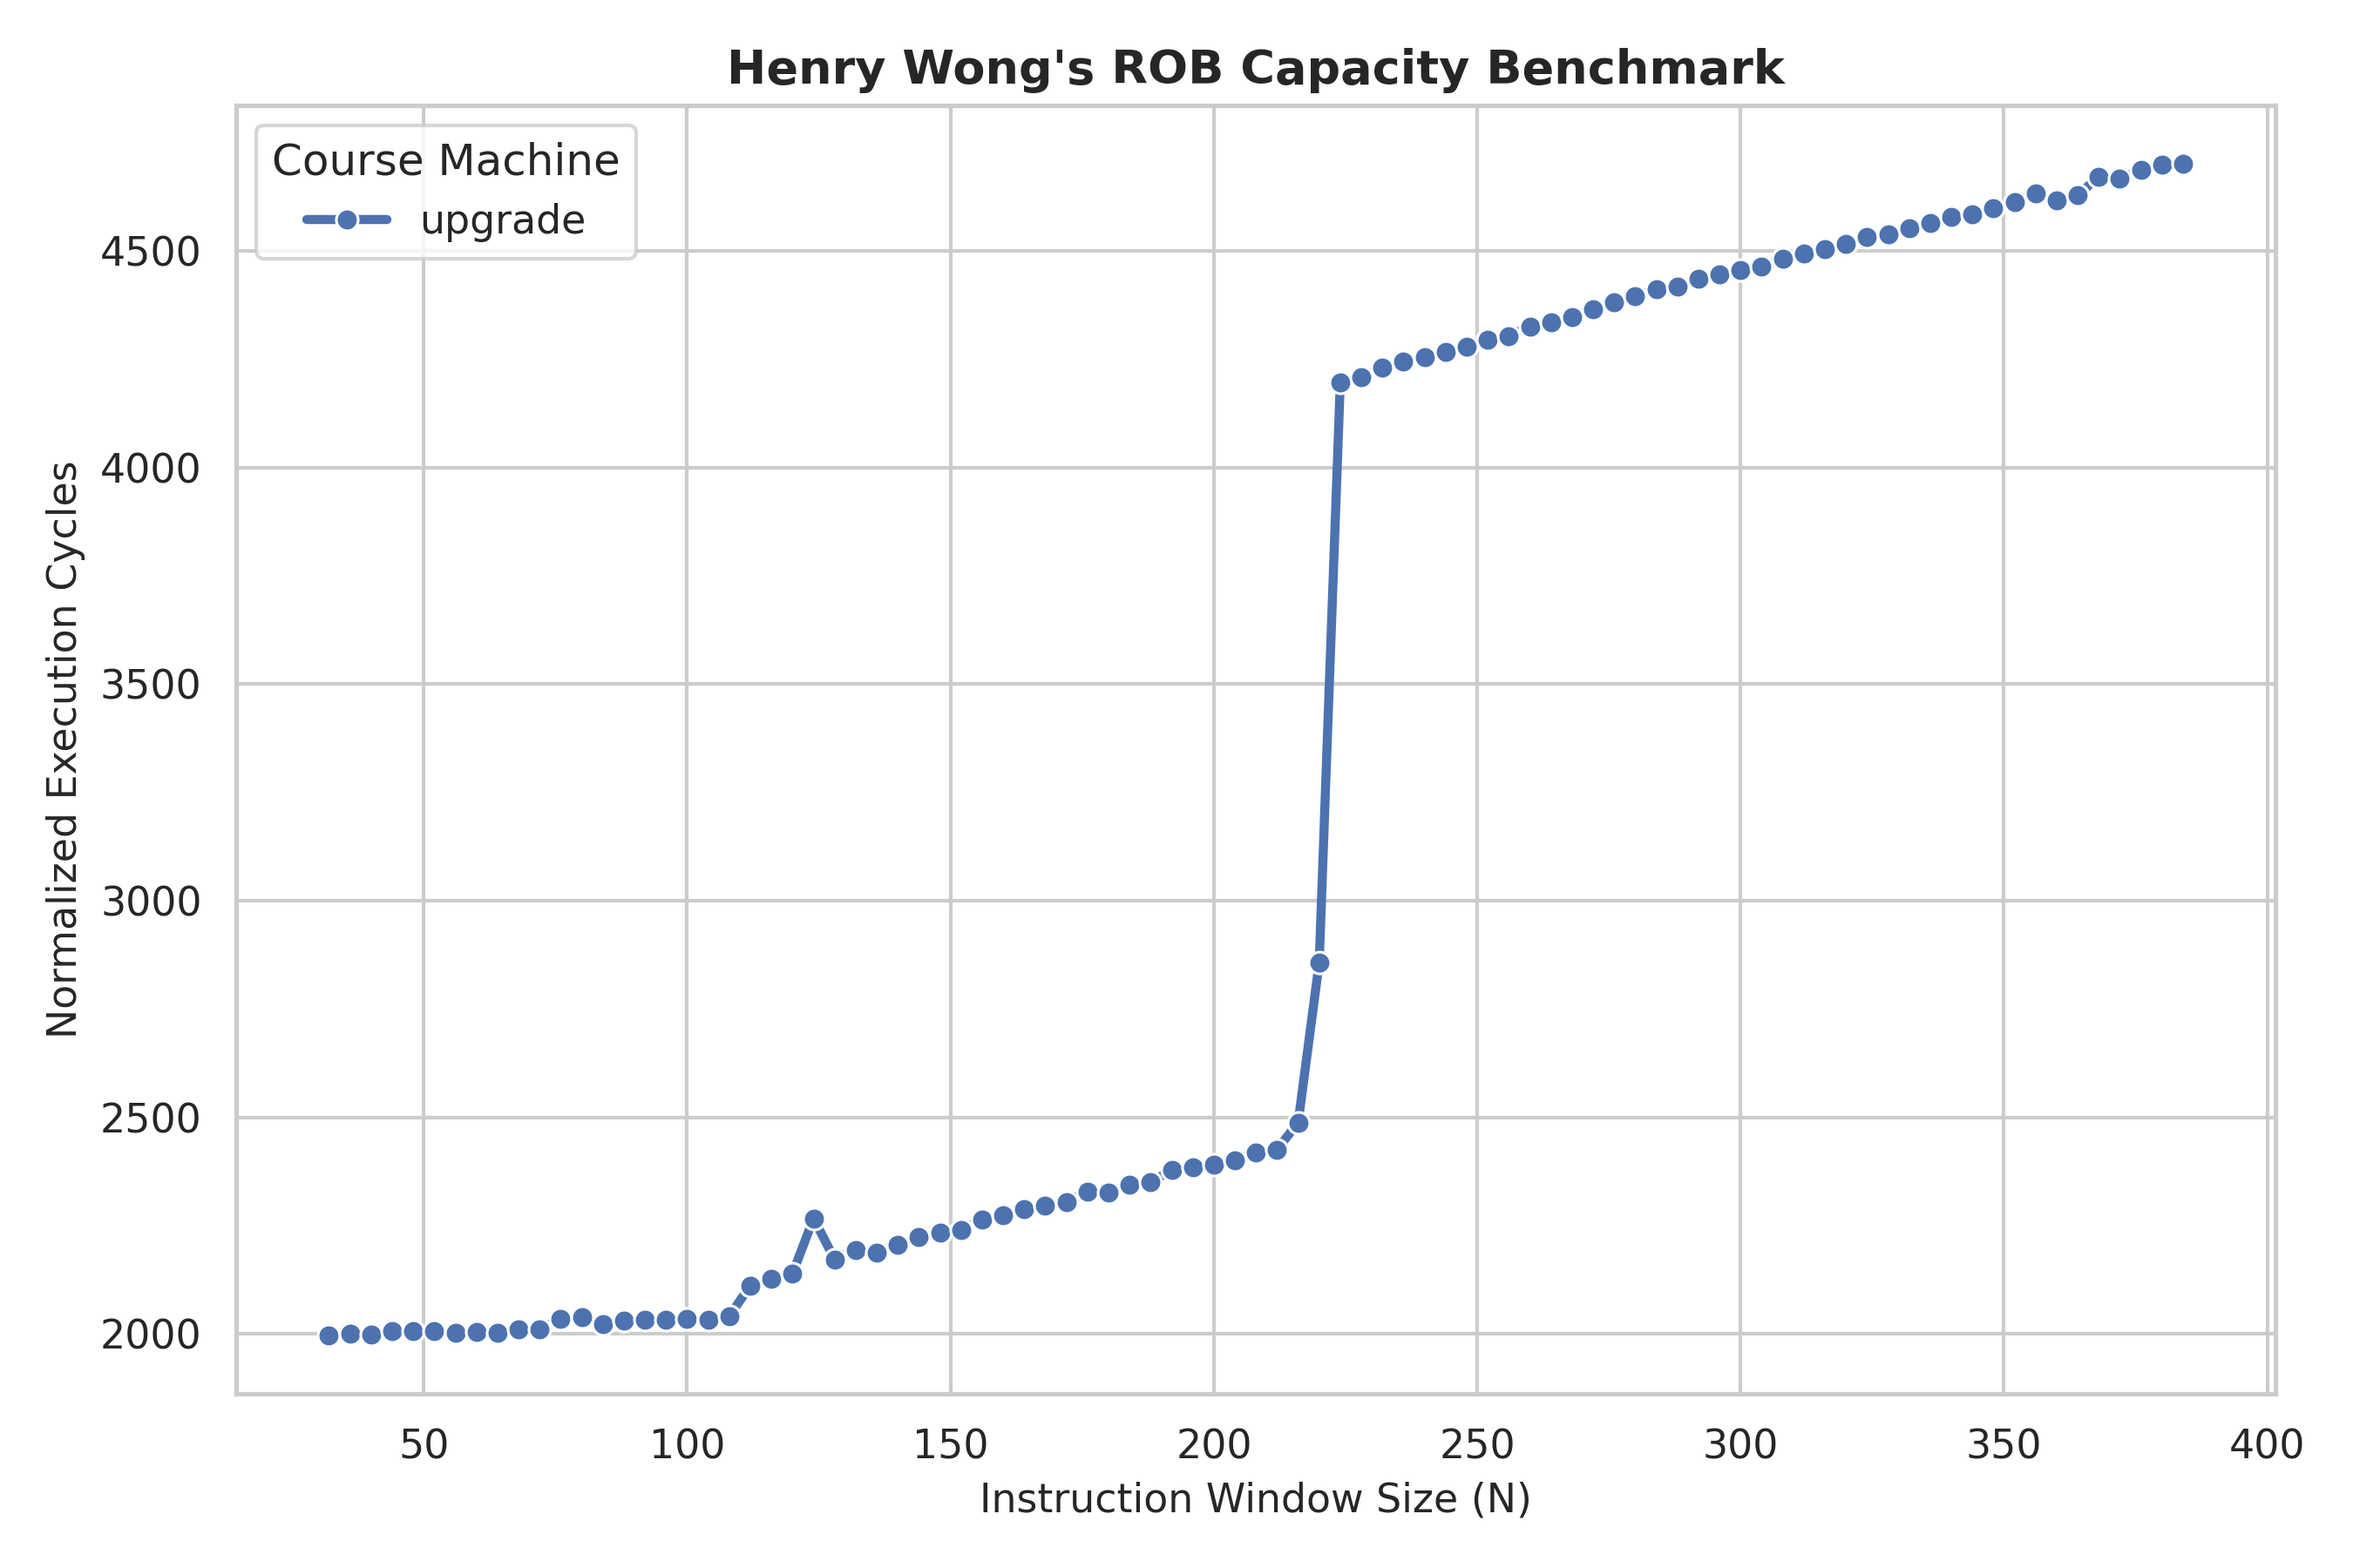
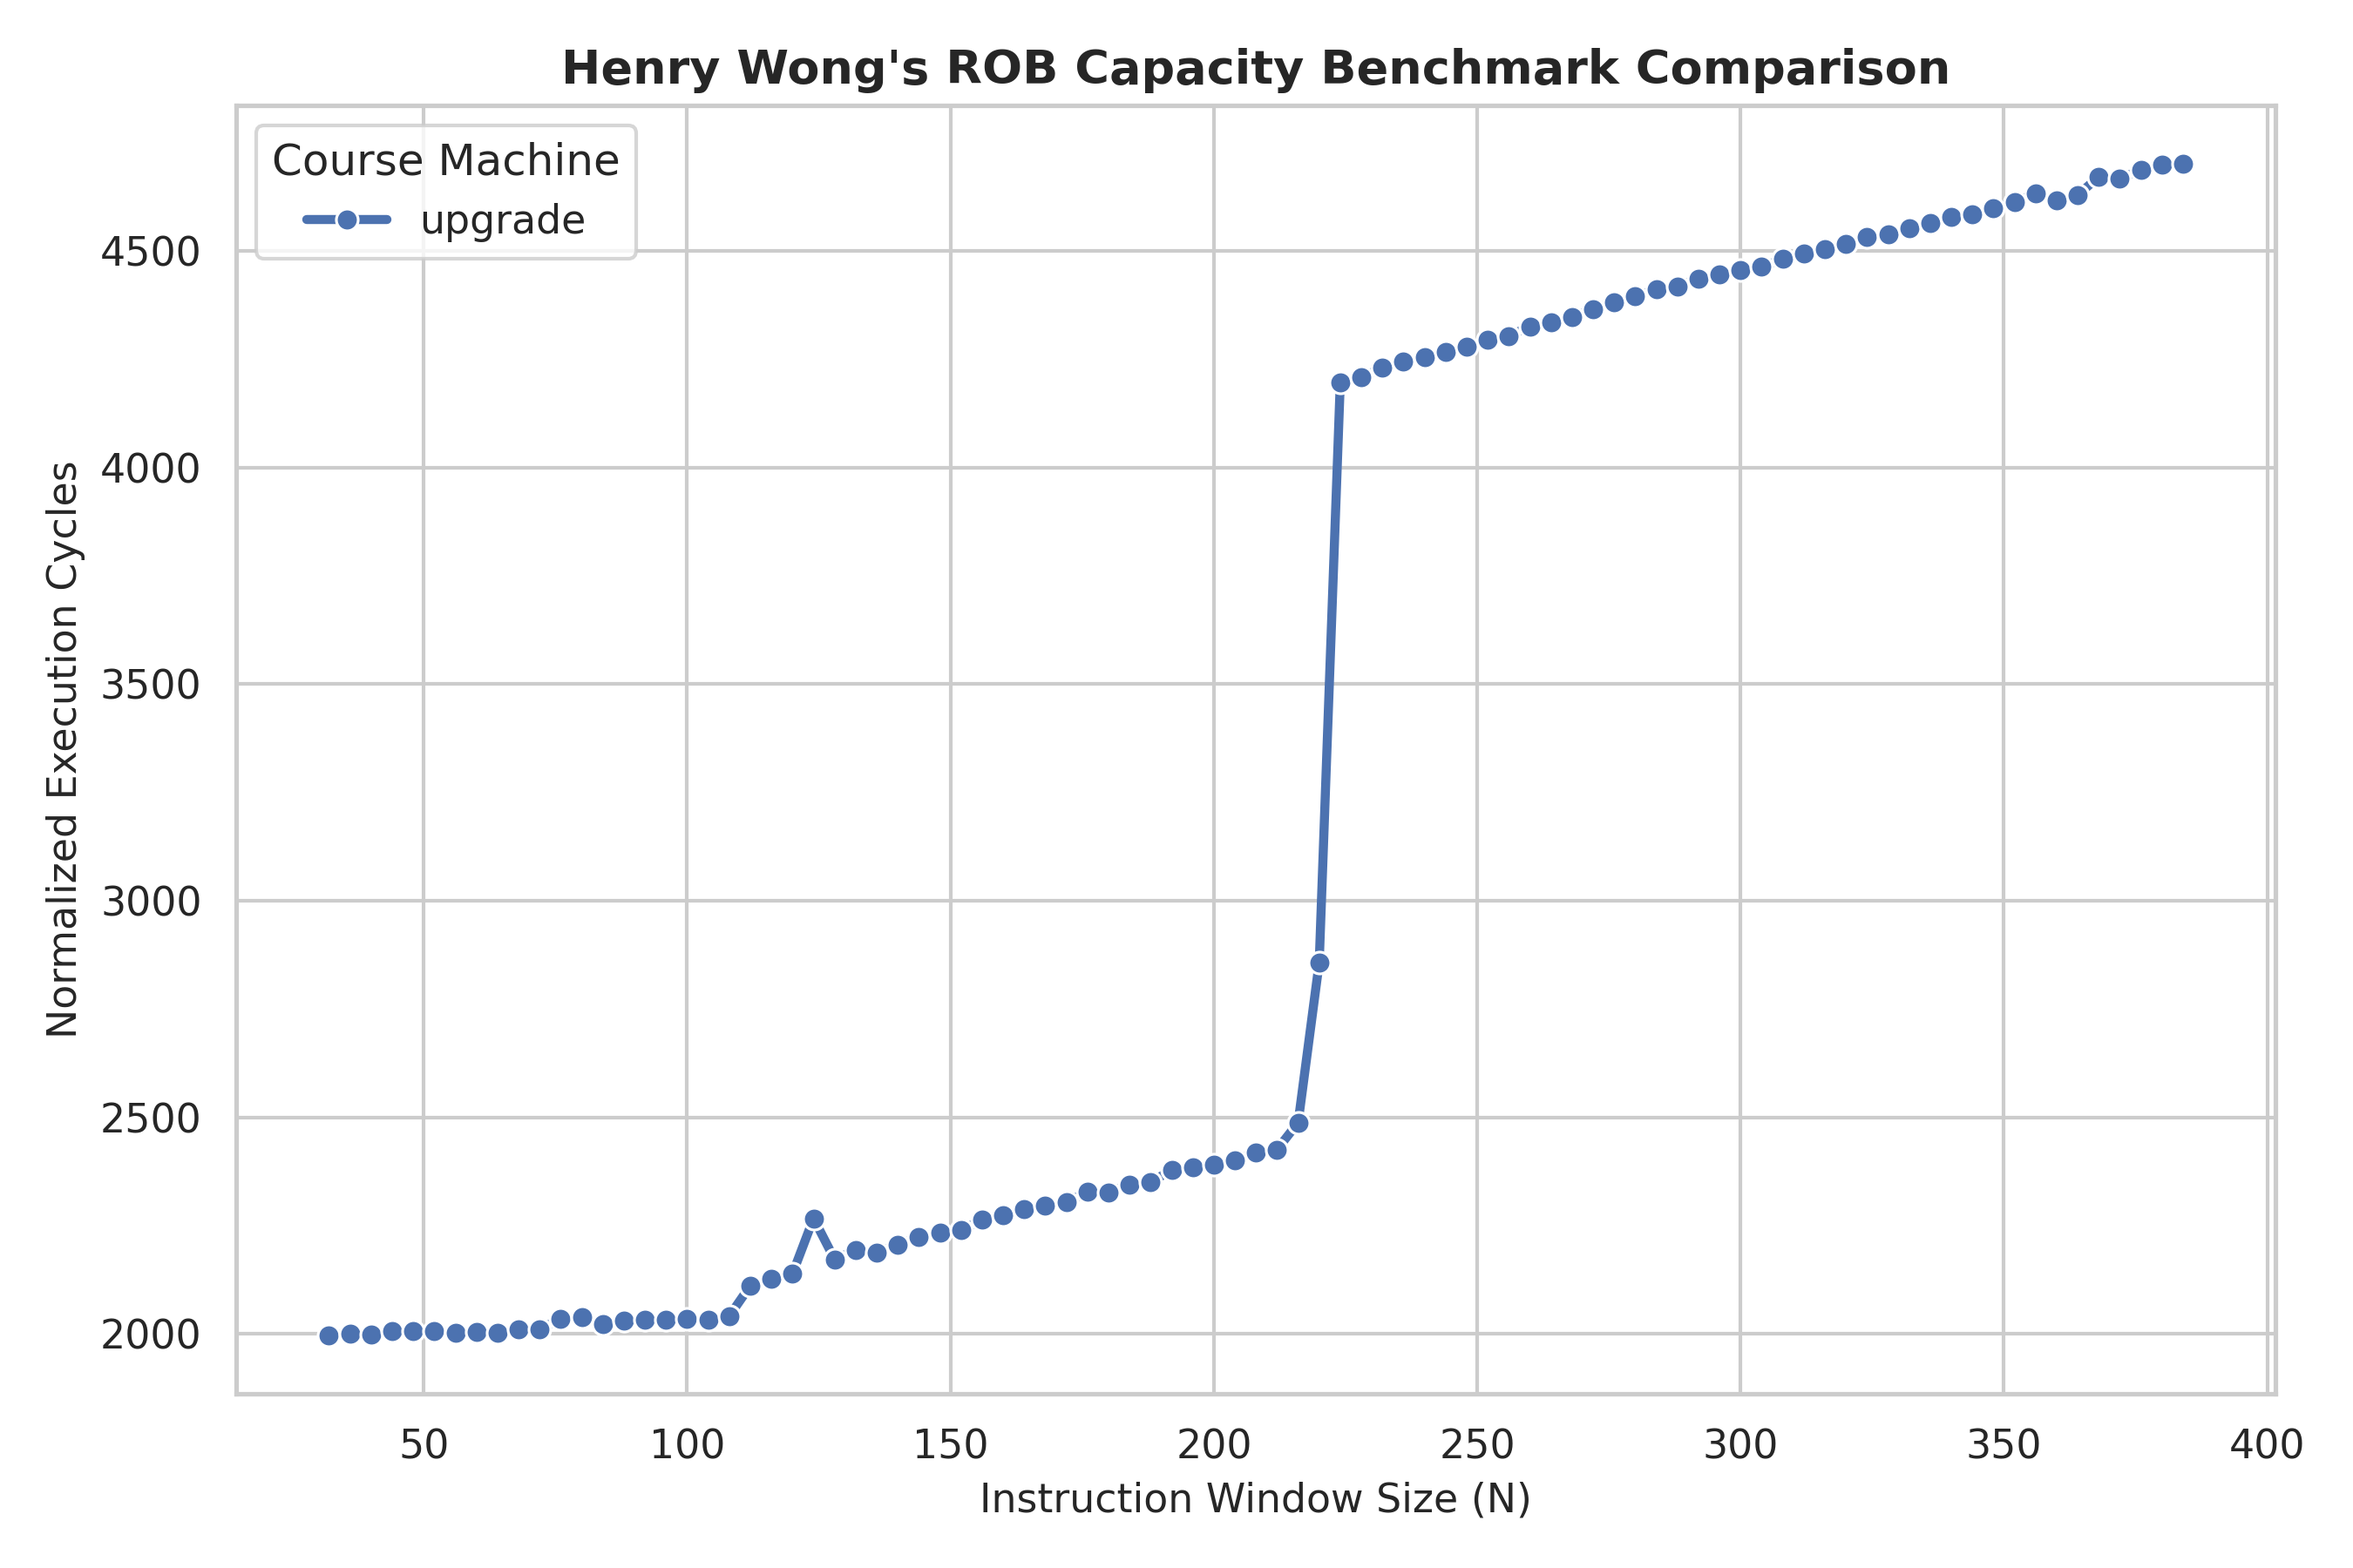
Update Henry Wong plotting script to generate unique machine-specific filenames

Changed region(s): [[0.2178, 0.0311, 0.84, 0.0622]]

diff --git a/plots/plot_hw_rob.py b/plots/plot_hw_rob.py
@@ -16,6 +16,35 @@ if dfs:
 
     os.makedirs("plots", exist_ok=True)
 
+    # 1. Generate individual plots for each machine so they don't overwrite
+    for machine in df["Machine_Clean"].unique():
+        machine_df = df[df["Machine_Clean"] == machine].sort_values("Window_Size")
+        
+        sns.set_theme(style="whitegrid")
+        fig, ax = plt.subplots(figsize=(9, 6))
+
+        sns.lineplot(
+            data=machine_df, 
+            x="Window_Size", 
+            y="Cycles", 
+            marker="o", 
+            color="teal",
+            linewidth=2.5, 
+            markersize=6, 
+            ax=ax
+        )
+
+        ax.set_title(f"Henry Wong's ROB Capacity Benchmark ({machine})", fontsize=13, weight="bold")
+        ax.set_ylabel("Normalized Execution Cycles", fontsize=11)
+        ax.set_xlabel("Instruction Window Size (N)", fontsize=11)
+
+        plt.tight_layout()
+        out_path = f"plots/{machine}_hw_rob.png"
+        plt.savefig(out_path, dpi=300)
+        plt.close()
+        print(f"Saved machine-specific plot: {out_path}")
+
+    # 2. Generate combined multi-machine comparison plot
     sns.set_theme(style="whitegrid")
     fig, ax = plt.subplots(figsize=(9, 6))
 
@@ -30,15 +59,16 @@ if dfs:
         ax=ax
     )
 
-    ax.set_title("Henry Wong's ROB Capacity Benchmark", fontsize=13, weight="bold")
+    ax.set_title("Henry Wong's ROB Capacity Benchmark Comparison", fontsize=13, weight="bold")
     ax.set_ylabel("Normalized Execution Cycles", fontsize=11)
     ax.set_xlabel("Instruction Window Size (N)", fontsize=11)
     ax.legend(title="Course Machine", loc="upper left")
 
     plt.tight_layout()
-    out_path = "plots/hw_rob_comparison.png"
-    plt.savefig(out_path, dpi=300)
+    comparison_path = "plots/hw_rob_comparison.png"
+    plt.savefig(comparison_path, dpi=300)
     plt.close()
-    print(f"Saved Henry Wong ROB plot: {out_path}")
+    print(f"Saved comparison plot: {comparison_path}")
+
 else:
     print("Error: No Henry Wong ROB CSV data found.")
